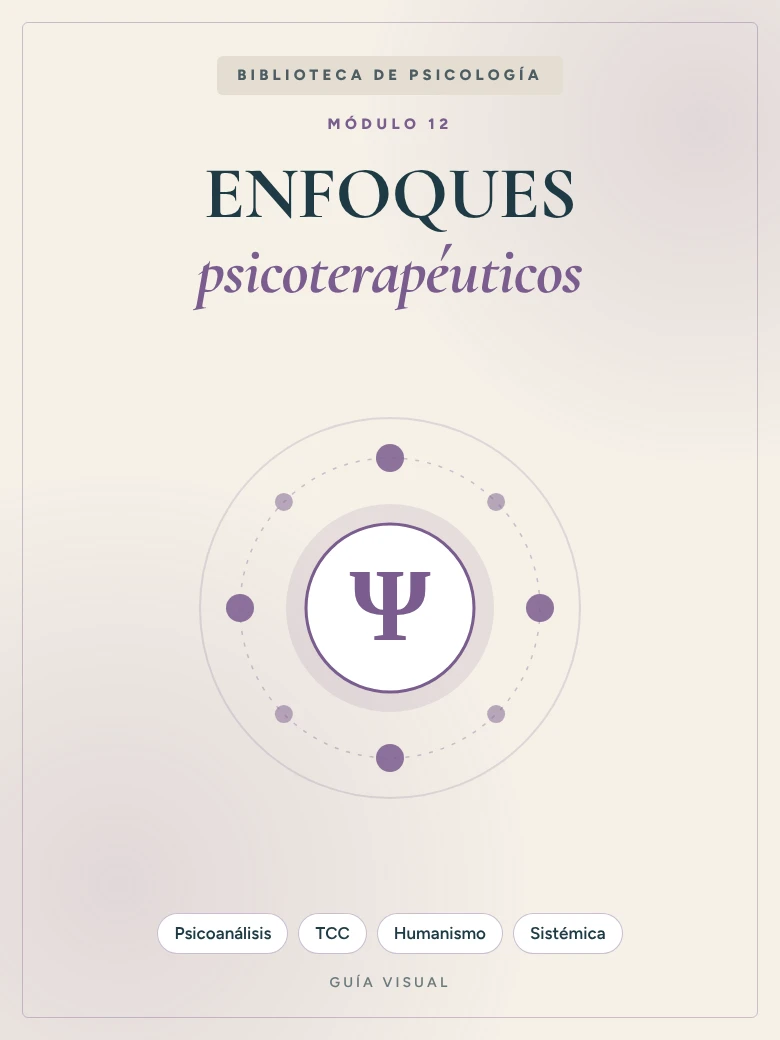
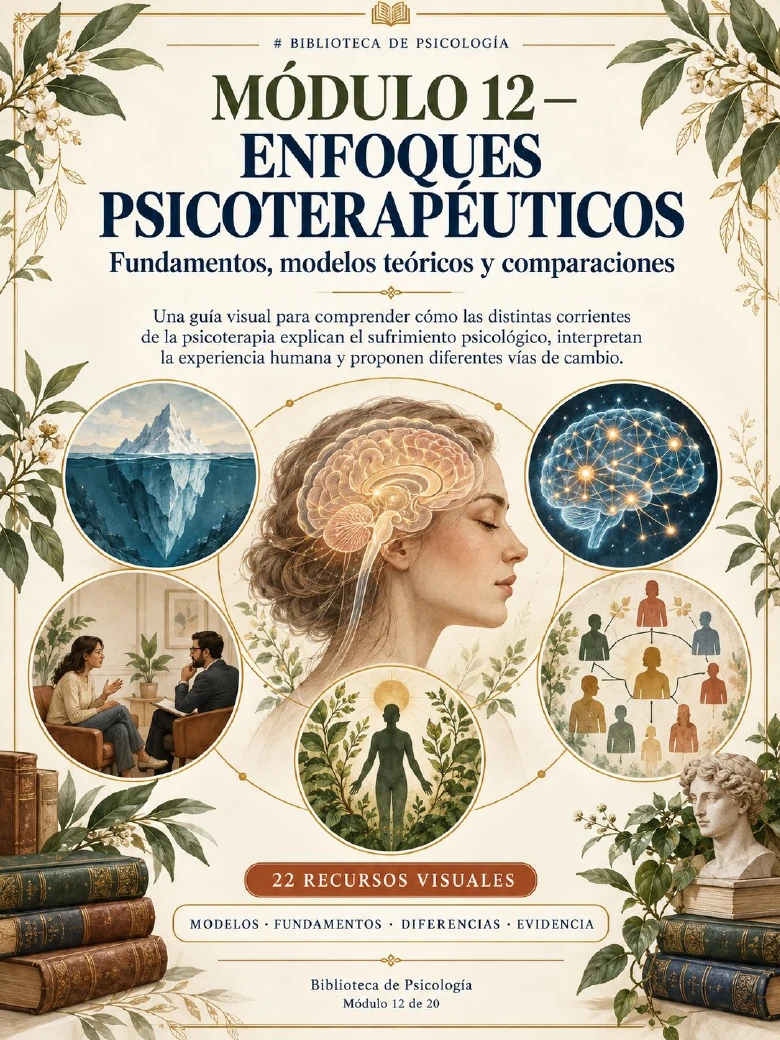
Módulos 12–20: enlaces, portadas reales, 18 muestras nuevas y nuevo mockup
Claude-Session: https://claude.ai/code/session_01LC3k2WFPRBYrLwEBPUqvGH

diff --git a/index.html b/index.html
@@ -214,15 +214,15 @@ var MODULES=[
  {n:9, t:"Evaluación psicológica y Psicometría", p:28, d:"Entrevista psicológica, modelo ABC, fiabilidad, validez y percentiles.", url:"https://drive.google.com/file/d/1OjfMDCKphajSGPWkrw6ljBWVNeA2qL3G/view?usp=sharing"},
  {n:10,t:"Recursos psicoeducativos y reflexión", p:38, d:"Rueda de emociones, círculo de control, ciclo del hábito, valores y herramientas de reflexión.", url:"https://drive.google.com/file/d/1LLPE2tV7ic8xpq5uoS-o83Cf9GQYkPnt/view?usp=sharing"},
  {n:11,t:"Investigación, evidencia y metodología", p:28, d:"Hipótesis, variables, correlación vs. causalidad, estadística básica y pensamiento crítico.", url:"https://drive.google.com/file/d/1cevi2ncZrg1E662vO1KjgV-BtgeQgFNe/view?usp=sharing"},
- {n:12,t:"Enfoques psicoterapéuticos", d:"Psicoanálisis, terapia cognitivo-conductual, humanismo, Gestalt, terapia sistémica y terapias de tercera generación, comparados.", url:""},
- {n:13,t:"Psicología clínica y de la salud", d:"El rol del psicólogo clínico, estrés y enfermedad, dolor crónico, adherencia al tratamiento y promoción de hábitos saludables.", url:""},
- {n:14,t:"Psicología educativa", d:"Aprendizaje en el aula, motivación escolar, dificultades de aprendizaje, orientación e inclusión educativa.", url:""},
- {n:15,t:"Psicología organizacional y del trabajo", d:"Selección de personal, clima laboral, liderazgo, motivación en el trabajo, burnout y equipos.", url:""},
- {n:16,t:"Psicología forense y jurídica", d:"Peritaje psicológico, testimonio y credibilidad, victimología y evaluación en el ámbito legal.", url:""},
- {n:17,t:"Neuropsicología clínica y fundamentos de psicofarmacología", d:"Evaluación neuropsicológica, daño cerebral, demencias, rehabilitación cognitiva y principales grupos de psicofármacos.", url:""},
- {n:18,t:"Ética y deontología profesional", d:"Código deontológico, confidencialidad, consentimiento informado, límites profesionales y dilemas éticos.", url:""},
- {n:19,t:"Psicología comunitaria y transcultural", d:"Intervención comunitaria, empoderamiento, redes de apoyo y la influencia de la cultura en la conducta.", url:""},
- {n:20,t:"Psicología evolucionista y comparada", d:"Darwin y la selección natural, etología, conducta animal, cooperación y altruismo.", url:""}
+ {n:12,t:"Enfoques psicoterapéuticos", d:"Psicoanálisis, terapia cognitivo-conductual, humanismo, Gestalt, terapia sistémica y terapias de tercera generación, comparados.", url:"https://drive.google.com/file/d/15i7NgBGy33Y1k-wYjVg6Um6KEr6wQG8K/view?usp=sharing"},
+ {n:13,t:"Psicología clínica y de la salud", d:"El rol del psicólogo clínico, estrés y enfermedad, dolor crónico, adherencia al tratamiento y promoción de hábitos saludables.", url:"https://drive.google.com/file/d/18obS828Gl84uMr6w_AyvNYhdnXgHLD0e/view?usp=sharing"},
+ {n:14,t:"Psicología educativa", d:"Aprendizaje en el aula, motivación escolar, dificultades de aprendizaje, orientación e inclusión educativa.", url:"https://drive.google.com/file/d/1DbDIrO8ysn8iTii_jjZ4_BbCie4p7txH/view?usp=sharing"},
+ {n:15,t:"Psicología organizacional y del trabajo", d:"Selección de personal, clima laboral, liderazgo, motivación en el trabajo, burnout y equipos.", url:"https://drive.google.com/file/d/1zl60CAv4x1FVULx30Vtsk3DqwyQEOa19/view?usp=sharing"},
+ {n:16,t:"Psicología forense y jurídica", d:"Peritaje psicológico, testimonio y credibilidad, victimología y evaluación en el ámbito legal.", url:"https://drive.google.com/file/d/1U7sigjdZlcpojq9DK_lO8MWyzZ0wJ-CW/view?usp=sharing"},
+ {n:17,t:"Neuropsicología clínica y fundamentos de psicofarmacología", d:"Evaluación neuropsicológica, daño cerebral, demencias, rehabilitación cognitiva y principales grupos de psicofármacos.", url:"https://drive.google.com/file/d/1SJMg786V6bwpxWQPs1I9j2QEdHK8a1uf/view?usp=sharing"},
+ {n:18,t:"Ética y deontología profesional", d:"Código deontológico, confidencialidad, consentimiento informado, límites profesionales y dilemas éticos.", url:"https://drive.google.com/file/d/1jPsMtewOTzHNPAjTdQVhX-mGByRe_ROY/view?usp=sharing"},
+ {n:19,t:"Psicología comunitaria y transcultural", d:"Intervención comunitaria, empoderamiento, redes de apoyo y la influencia de la cultura en la conducta.", url:"https://drive.google.com/file/d/1Nsn7uKeQGASRCpABjfpK6YobXyKuxSgE/view?usp=sharing"},
+ {n:20,t:"Psicología evolucionista y comparada", d:"Darwin y la selección natural, etología, conducta animal, cooperación y altruismo.", url:"https://drive.google.com/file/d/1eWeSYbKHCzVzQqCQ67yHQa884cQk-wI0/view?usp=sharing"}
 ];
 var BONUSES=[
  {n:1, t:"Diccionario Esencial de Psicología", d:"Aclara al instante términos y definiciones mientras estudias.", img:"https://i.ibb.co/VK056rB/af0b199d-c289-4391-ae32-38bcc5ace266.png", url:"https://drive.google.com/file/d/10TSUP6X8zqRYabYTNUfIiF9plEUomrhN/view?usp=sharing"},
